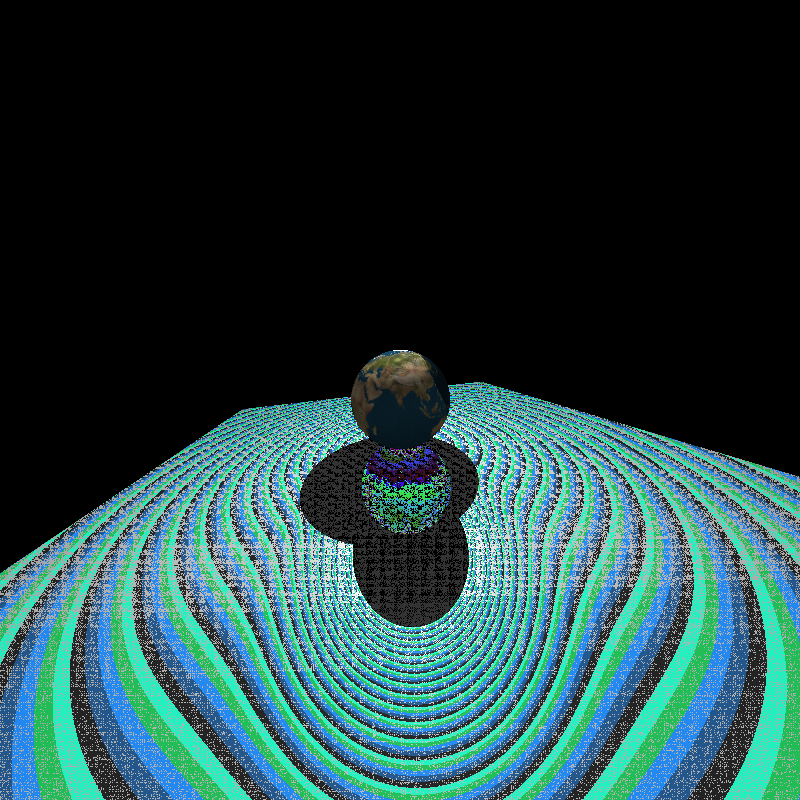
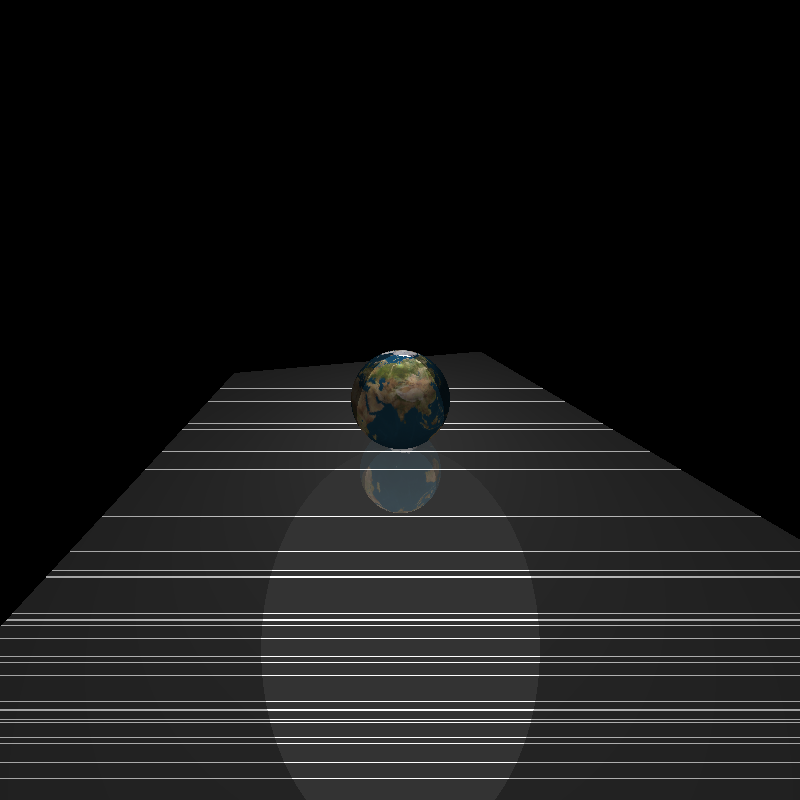
Fixed color blending

diff --git a/ScenegraphBasicRaytracer/src/main/java/sgraph/RTScenegraphRenderer.java b/ScenegraphBasicRaytracer/src/main/java/sgraph/RTScenegraphRenderer.java
@@ -5,7 +5,7 @@ import org.joml.Vector2f;
 import org.joml.Vector3f;
 import org.joml.Vector4f;
 
-import java.awt.*;
+import java.awt.Color;
 import java.awt.image.BufferedImage;
 import java.io.FileNotFoundException;
 import java.io.FileOutputStream;
@@ -95,19 +95,17 @@ public class RTScenegraphRenderer implements IScenegraphRenderer {
                         0.0f);
                 HitRecord hitA = new HitRecord();
                 raycast(rayView,root,modelView,hitA);
-                Color colorA = new Color((int)(getRaytracedColor(hitA).getRGB() * hitA.material.getAbsorption()));
+                Color colorA = new Color((int)(getRaytracedColor(hitA).getRGB() ));
                 Color colorR = new Color(0,0,0);
                 if (hitA.material.getReflection() > 0) {
                     Ray reflectRay = new Ray();
                     reflectRay.start = hitA.point;
                     reflectRay.direction = rayView.direction.sub(hitA.normal.mul(2 * (hitA.normal.dot(rayView.direction))));
-
-
                     HitRecord hitR = new HitRecord();
                         raycast(reflectRay, root, modelView, hitR);
-                        colorR = new Color((int) (getRaytracedColor(hitR).getRGB() * hitA.material.getReflection()));
+                        colorR = new Color((int) (getRaytracedColor(hitR).getRGB()));
                 }
-                Color color = new Color(colorA.getRGB() + colorR.getRGB());
+                Color color = blend(colorA, colorR, hitA.material.getAbsorption(), hitA.material.getReflection());
 
                 output.setRGB(i,height-1-j,color.getRGB());
             }
@@ -128,6 +126,15 @@ public class RTScenegraphRenderer implements IScenegraphRenderer {
             throw new IllegalArgumentException("Could not write raytraced image!");
         }
 
+    }
+
+    public static Color blend(Color c0, Color c1, float weight0, float weight1) {
+        double r = weight0 * c0.getRed() + weight1 * c1.getRed();
+        double g = weight0 * c0.getGreen() + weight1 * c1.getGreen();
+        double b = weight0 * c0.getBlue() + weight1 * c1.getBlue();
+        double a = Math.max(c0.getAlpha(), c1.getAlpha());
+
+        return new Color((int) r, (int) g, (int) b, (int) a);
     }
 
     private void raycast(Ray rayView,INode root,Stack<Matrix4f> modelView,HitRecord hitRecord) {
